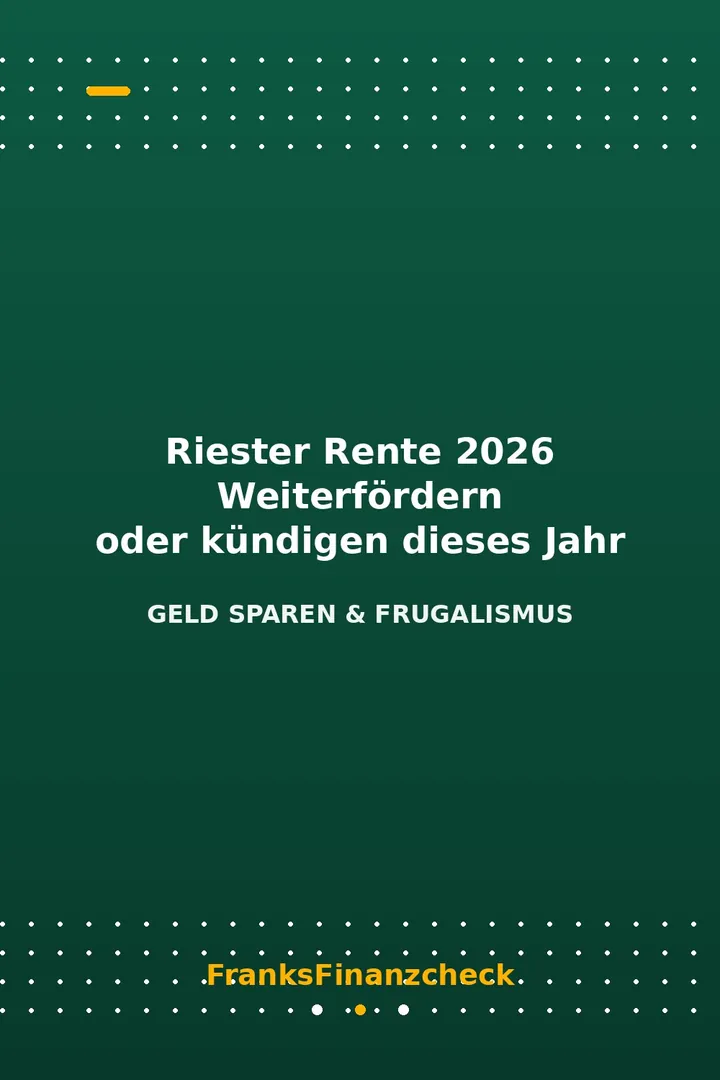
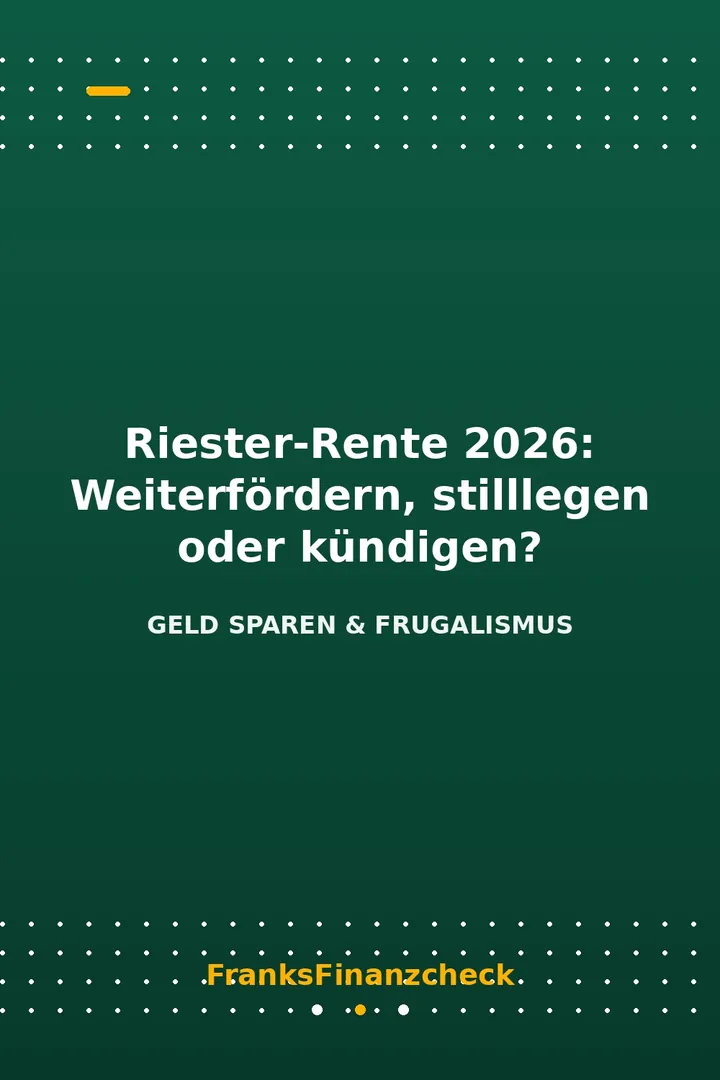
fix: Riester-Artikel – Titel korrigiert (Riester-Rente 2026: Weiterfördern, stilllegen oder kündigen?) + Cover alle Varianten neu gerendert

Changed region(s): [[0.0917, 0.3972, 0.9167, 0.6111]]

diff --git a/content/posts/riester-rente-2026-lohnt-sich/index.md b/content/posts/riester-rente-2026-lohnt-sich/index.md
@@ -1,5 +1,5 @@
 ---
-title: "Riester Rente 2026 Weiterfördern oder kündigen dieses Jahr"
+title: "Riester-Rente 2026: Weiterfördern, stilllegen oder kündigen?"
 description: "Die Riester-Reform kommt – aber was heißt das für deinen Vertrag? So entscheidest du 2026: fördern, stilllegen oder kündigen."
 date: 2026-08-09T09:00:00Z
 draft: false
@@ -13,7 +13,7 @@ ai_provider: "Manuell (Masterplan Blueprint 20)"
 kurzantwort: "Die Riester-Reform 2026 vereinfacht das System und senkt Kosten – ob sich dein Vertrag lohnt, hängt von Zulagen und Kosten ab. Für Familien mit Kindern lohnt Riester oft weiter, für Alleinstehende ohne Kinder lohnt meist eher ein ETF-Sparplan. Eine Kündigung solltest du nur nach sorgfältiger Rechnung durchziehen."
 cover:
   image: "images/covers/riester-rente-2026-lohnt-sich.jpg"
-  alt: "Riester Rente 2026 Weiterfördern oder kündigen dieses Jahr"
+  alt: "Riester-Rente 2026: Weiterfördern, stilllegen oder kündigen?"
   caption: "Tipp von FranksFinanzcheck"
 ---
 Die Riester-Rente ist das umstrittenste Förderprodukt der deutschen Altersvorsorge – und 2026 steht die große Reform an. Was bedeutet das für deinen Vertrag? Solltest du weiterfördern, stilllegen oder kündigen? Die Antwort hängt von deiner persönlichen Situation ab – und von einer ehrlichen Rechnung.
